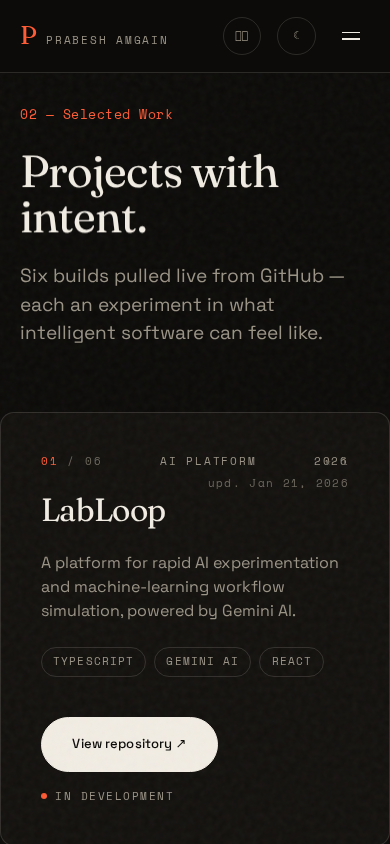
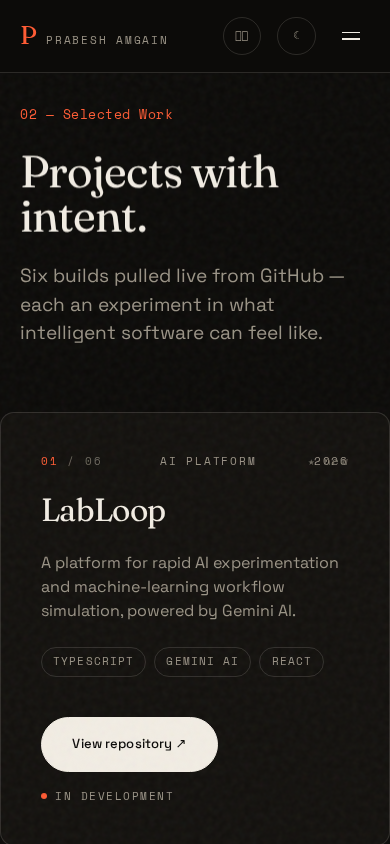
feat: orbit field scaled to large hero-right constellation (~2.5x area)

diff --git a/src/components/OrbitField.tsx b/src/components/OrbitField.tsx
@@ -21,7 +21,7 @@ export default function OrbitField() {
     const ACCENT = '255, 92, 53'
 
     // orbital particles (elliptical paths so the field fills the wide box)
-    const N = 44
+    const N = 56
     const parts = Array.from({ length: N }, (_, i) => {
       const accent = i % 9 === 0
       return {
@@ -42,9 +42,10 @@ export default function OrbitField() {
     let time = 0
 
     const resize = () => {
-      const dpr = Math.min(window.devicePixelRatio || 1, 1.5)
-      canvas.width = Math.max(2, Math.round(Math.min(canvas.clientWidth, 820) * dpr))
-      canvas.height = Math.max(2, Math.round(Math.min(canvas.clientHeight, 620) * dpr))
+      // large background canvas: cap the resolution and dpr for smooth 60fps
+      const dpr = Math.min(window.devicePixelRatio || 1, 1.25)
+      canvas.width = Math.max(2, Math.round(Math.min(canvas.clientWidth, 1280) * dpr))
+      canvas.height = Math.max(2, Math.round(Math.min(canvas.clientHeight, 760) * dpr))
     }
     resize()
 
@@ -52,10 +53,10 @@ export default function OrbitField() {
       const W = canvas.width
       const H = canvas.height
       ctx.clearRect(0, 0, W, H)
-      const cx = W / 2
-      const cy = H * 0.44
-      const R = Math.min(W, H) * 0.5 // max orbit radius in px
-      const linkDist = R * 0.55
+      const cx = W * 0.62
+      const cy = H * 0.5
+      const R = Math.min(W, H) * 0.54 // max orbit radius in px
+      const linkDist = R * 0.5
 
       // node positions
       const pos: { x: number; y: number; accent: boolean }[] = []

diff --git a/src/components/orbit-field.css b/src/components/orbit-field.css
@@ -1,16 +1,16 @@
 .orbit-field {
+  /* large ambient constellation on the hero's right side; the mask keeps the
+     name/intro zone clean */
   position: absolute;
-  /* explicit height: canvases are replaced elements and would otherwise keep
-     their intrinsic buffer ratio instead of filling top+bottom */
-  top: clamp(290px, 40vh, 440px);
+  top: clamp(250px, 32vh, 360px);
   right: 0;
-  width: min(54vw, 780px);
-  height: clamp(300px, 40vh, 420px);
+  width: min(86vw, 1380px);
+  height: clamp(460px, 58vh, 620px);
   z-index: 0;
   pointer-events: none;
   opacity: 0.95;
-  -webkit-mask-image: radial-gradient(ellipse at 50% 44%, black 55%, transparent 82%);
-  mask-image: radial-gradient(ellipse at 50% 44%, black 55%, transparent 82%);
+  -webkit-mask-image: radial-gradient(ellipse at 62% 50%, black 45%, transparent 72%);
+  mask-image: radial-gradient(ellipse at 62% 50%, black 45%, transparent 72%);
 }
 
 @media (max-width: 900px) {
